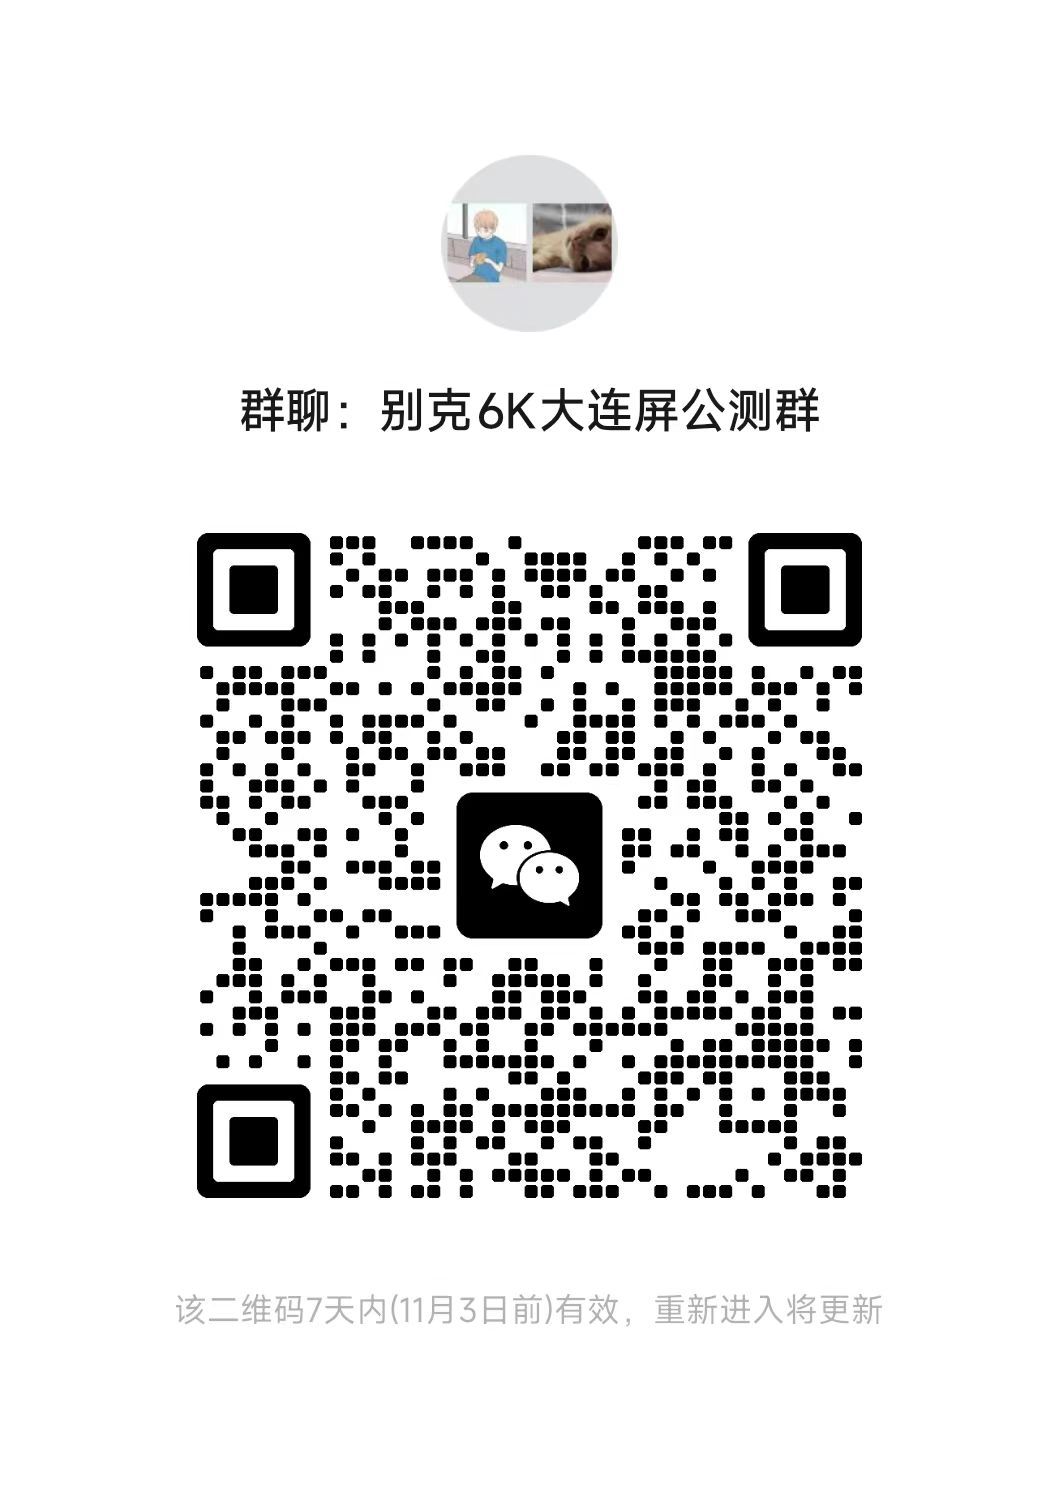
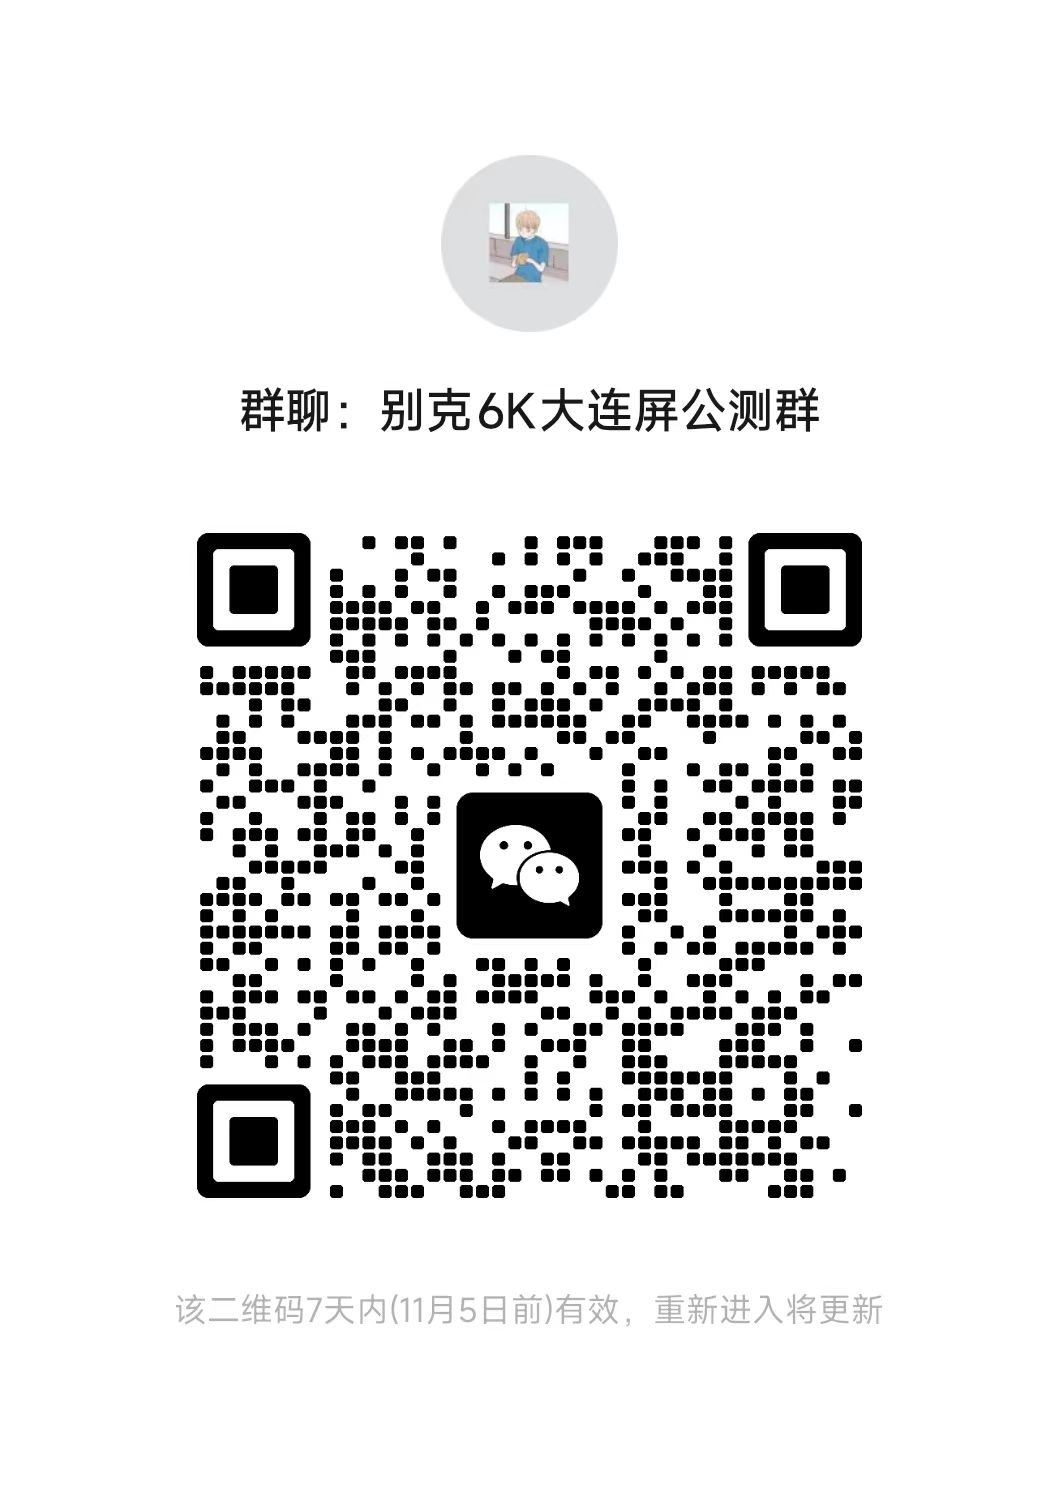
docs: refresh community QR code for November 5

Changed region(s): [[0.187, 0.3403, 0.8102, 0.8043], [0.4051, 0.1237, 0.5921, 0.2165]]

diff --git a/README.md b/README.md
@@ -36,13 +36,13 @@
 
 <p align="center">
   <a href="docs/images/wechat-group.jpg">
-    <img src="docs/images/wechat-group.jpg" width="360" alt="微信进群二维码：别克6K大连屏公测群，2026 年 11 月 3 日前有效">
+    <img src="docs/images/wechat-group.jpg" width="360" alt="微信进群二维码：别克6K大连屏公测群，2026 年 11 月 5 日前有效">
   </a>
 </p>
 
 <p align="center">使用微信扫码进群，点击图片可查看原图。</p>
 
-> 图片标注二维码在 **2026 年 11 月 3 日前有效**。过期后请查看仓库更新的二维码。
+> 图片标注二维码在 **2026 年 11 月 5 日前有效**。过期后请查看仓库更新的二维码。
 
 ## 支持项目
 
